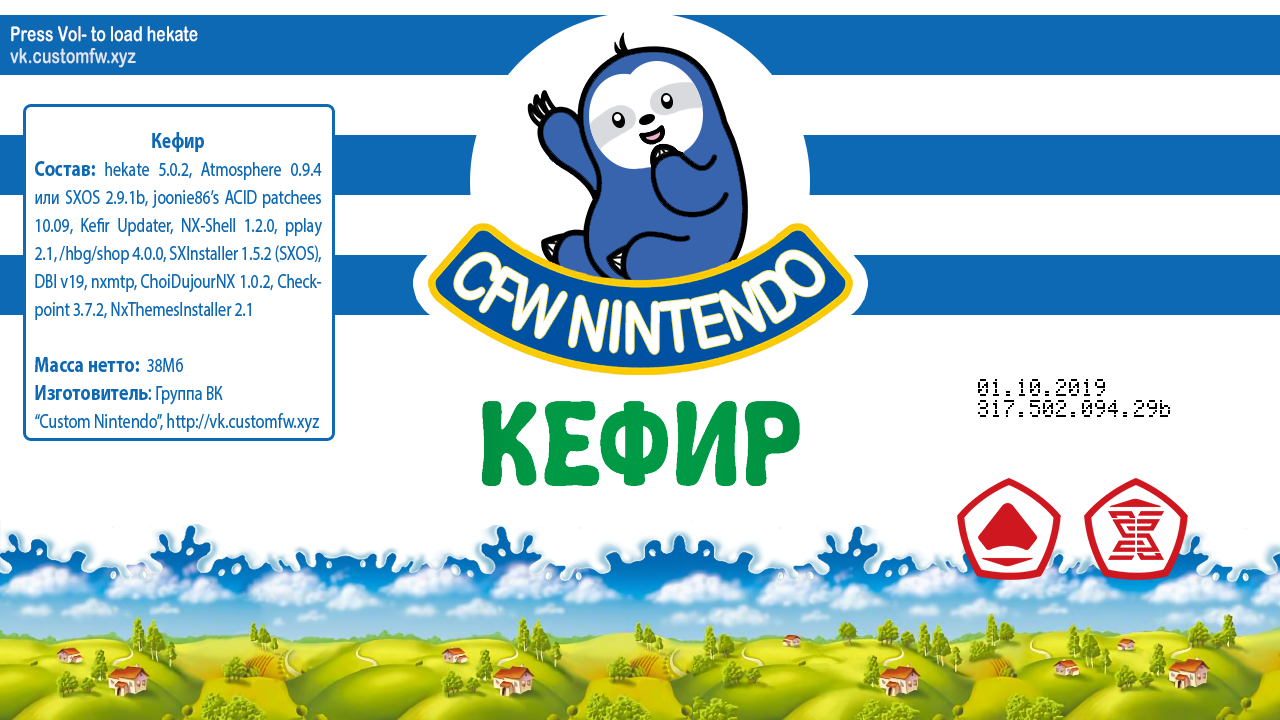
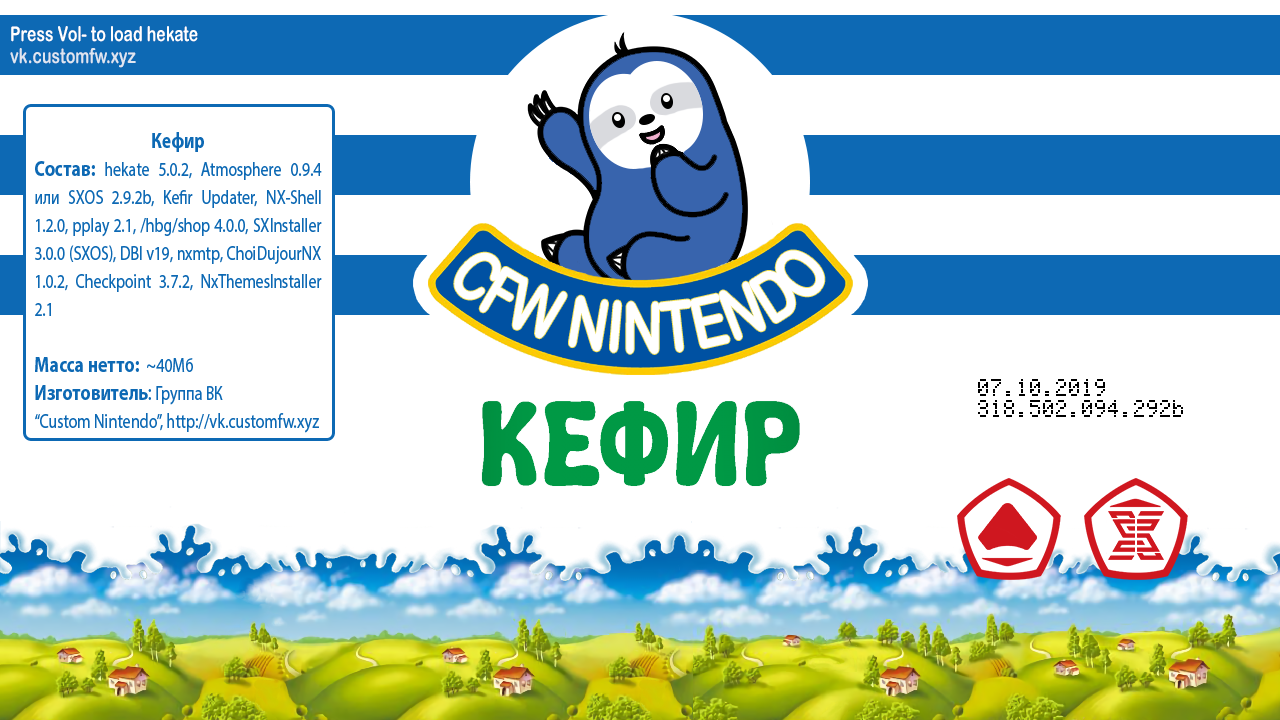
луашк318

Changed region(s): [[0.0312, 0.2444, 0.25, 0.4583], [0.0938, 0.4889, 0.1562, 0.5194], [0.9062, 0.55, 0.9375, 0.5806]]

diff --git a/kefir.html b/kefir.html
@@ -335,7 +335,7 @@
 <nav class="toc">
     <header><h4 class="nav__title"><i class="fa fa-file-text"></i> Разделы</h4></header>
 <ul class="toc__menu" id="markdown-toc">
-  <li><a href="#kefir-317" id="markdown-toc-kefir-317">KEFIR 317</a>    <ul>
+  <li><a href="#kefir-318" id="markdown-toc-kefir-318">KEFIR 318</a>    <ul>
       <li><a href="#внимание" id="markdown-toc-внимание"><strong>ВНИМАНИЕ!</strong></a></li>
       <li><a href="#состав-kefir" id="markdown-toc-состав-kefir">Состав kefir</a></li>
       <li><a href="#changelog" id="markdown-toc-changelog">Changelog</a></li>
@@ -357,7 +357,7 @@
 
 <hr />
 
-<h2 id="kefir-317">KEFIR 317</h2>
+<h2 id="kefir-318">KEFIR 318</h2>
 
 <p>В контексте этого руководства - сборник, состоящий из выбранного кастома, необходимых программ и скриптов, которые все это установят правильным образом. Подробнее про кефир <a href="https://vk.com/@switchopen-sostav-kefirachast-pervaya-obschaya-informaciya-o-sostave" target="_blank">здесь</a></p>
 
@@ -400,7 +400,8 @@
 <h3 id="changelog">Changelog</h3>
 
 <ul>
-  <li>[Обновлено] SXOS 2.9.1b</li>
+  <li>[Обновлено] SXOS 2.9.2b</li>
+  <li>[Обновлено] SXInstalleк 3.0.0</li>
 </ul>
 
 <hr />
